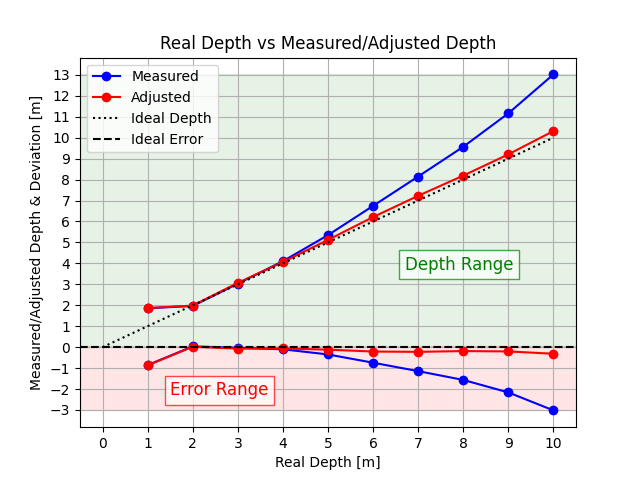
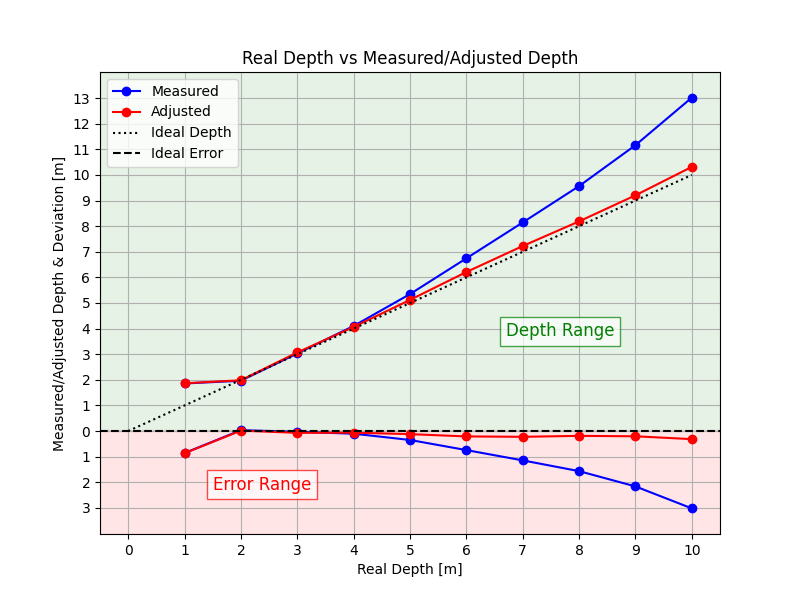
Changed figure

diff --git a/Validation/DepthValuesCheck.py b/Validation/DepthValuesCheck.py
@@ -44,27 +44,35 @@ for meter in meter_range:
 min_y = min(min(mean_measured), min(mean_adjusted), min(error_measured), min(error_adjusted))
 max_y = max(max(mean_measured), max(mean_adjusted), max(error_measured), max(error_adjusted))
 
-plotrange_x = range(0, max(meter_range)+1)
-plotrange_y = range(int(min_y), int(max_y)+1)
-# Plotting 'Real Depth vs Measured/Adjusted depth'
+plotrange_x = range(0, max(meter_range) + 1)
+plotrange_y = range(0, int(max_y) + 1)  # Only positive ticks for display
+
+plt.figure(figsize=(8, 6))
+
+# Plot 'Real Depth vs Measured/Adjusted Depth'
 plt.plot(meter_range, mean_measured, label='Measured', marker='o', linestyle='-', color='b')
 plt.plot(meter_range, mean_adjusted, label='Adjusted', marker='o', linestyle='-', color='r')
 plt.plot([0, 10], [0, 10], linestyle=':', color='black', label='Ideal Depth')
 plt.legend()
 plt.grid(True)
 
-# Plotting 'Deviation'
+# Plot 'Deviation' (unchanged)
 plt.plot(meter_range, error_measured, marker='o', linestyle='-', color='b')
 plt.plot(meter_range, error_adjusted, marker='o', linestyle='-', color='r')
+
 plt.axhline(0, color='black', linestyle='--', label='Ideal Error')
+
 plt.xlabel('Real Depth [m]')
 plt.ylabel('Measured/Adjusted Depth & Deviation [m]')
 plt.title('Real Depth vs Measured/Adjusted Depth')
+
 plt.legend()
 plt.grid(True)
+
+# Highlight error range
 plt.axhspan(
-    ymin=min(min(error_measured), min(error_adjusted)),
-    ymax=max(max(error_measured), max(error_adjusted)),
+    ymin=min(error_measured + error_adjusted)-1,
+    ymax=max(error_measured + error_adjusted),
     color='red', alpha=0.1
 )
 plt.text(
@@ -75,9 +83,11 @@ plt.text(
     color='red',
     bbox=dict(facecolor='white', alpha=0.7, edgecolor='red')
 )
+
+# Highlight depth range
 plt.axhspan(
-    ymin = 0,
-    ymax=max(max(mean_measured), max(mean_adjusted)),
+    ymin=0,
+    ymax=max(max(mean_measured), max(mean_adjusted))+1,
     color='green', alpha=0.1
 )
 plt.text(
@@ -88,6 +98,16 @@ plt.text(
     color='green',
     bbox=dict(facecolor='white', alpha=0.7, edgecolor='green')
 )
-plt.yticks(plotrange_y), plt.xticks(plotrange_x)
+
+plt.xticks(plotrange_x)
+# Adjust the y-axis to mirror negative values visually
+plt.ylim(min_y-1, max_y+1)  # Ensure full range is shown
+plt.yticks(
+    range(int(min_y), int(max_y) + 1),
+    [abs(y) for y in range(int(min_y), int(max_y) + 1)]  # Display absolute values
+)
+
 plt.savefig("Validation/figures/RealvsMeasuredDepth")
 plt.show()
+
+
